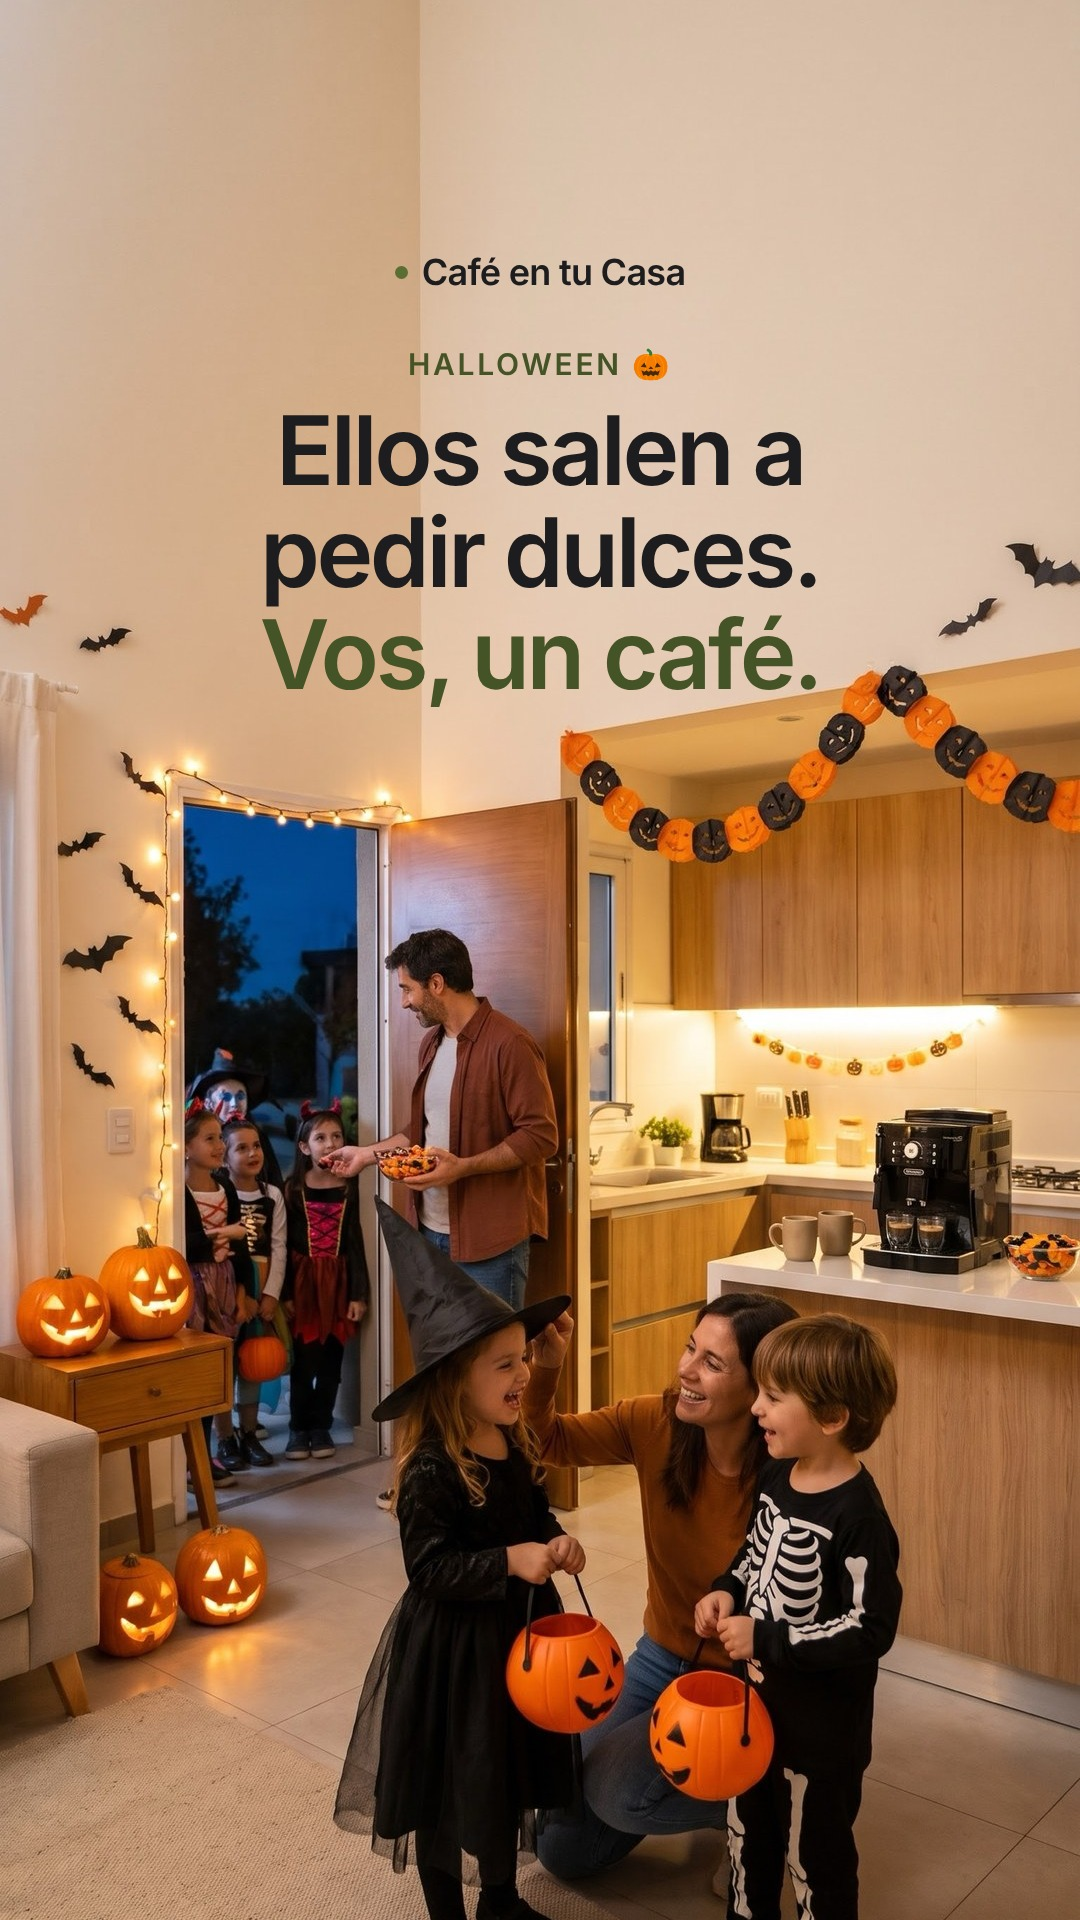
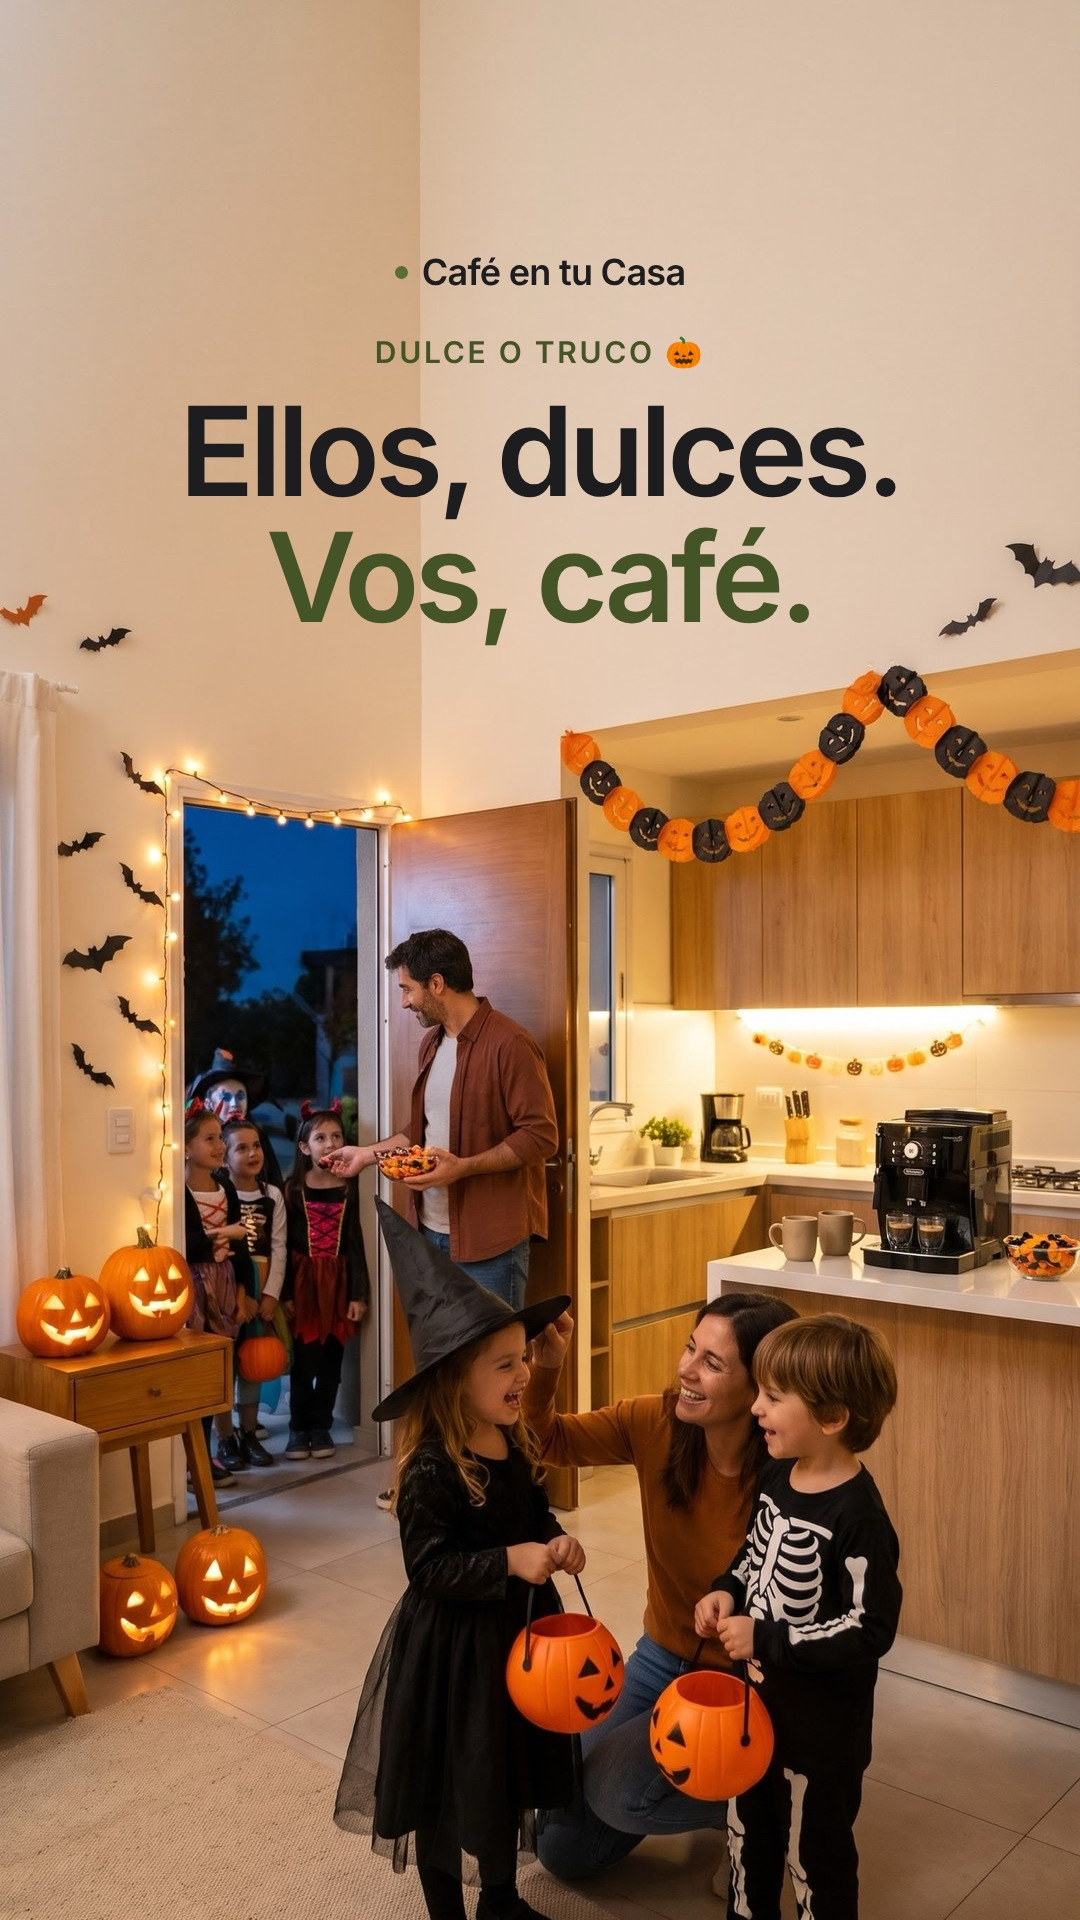
Historia de Halloween: título más corto y grande
Claude-Session: https://claude.ai/code/session_019YKpfrztqKhPwAz7rEXRyM

Changed region(s): [[0.1528, 0.1562, 0.825, 0.375]]

diff --git a/instagram/pieza.js b/instagram/pieza.js
@@ -24,7 +24,7 @@ const CUERPO = {
   opciones:s => `${ep(s.ep)}<h2>${s.h}</h2><div class="opciones">${s.ops.map(o => `<div>${o}</div>`).join('')}</div>${par(s.p)}`,
   cta:     s => `${ep(s.ep)}<h1>${s.h}</h1>${sub(s.sub)}<p class="boton">${s.boton}</p>`,
   // foto de ambiente a sangre: el texto arriba, sobre la parte limpia de la foto
-  escena:  s => `${ep(s.ep)}<h1>${s.h}</h1>${s.precio ? `<p class="precio"><b>${s.precio}</b> ${s.nota}</p>` : ''}${
+  escena:  s => `${ep(s.ep)}<h1 class="${s.grande ? 'grande' : ''}">${s.h}</h1>${s.precio ? `<p class="precio"><b>${s.precio}</b> ${s.nota}</p>` : ''}${
              s.cuotas ? `<p class="cuotas">${s.cuotas}</p>` : ''}`
 };
 
@@ -38,5 +38,5 @@ function placaHTML(pieza, n) {
   const fondo = s.t === 'escena'
     ? `<img class="fondo" src="../${s.img}" alt="">` : '';
   return `<div class="lienzo ${vertical ? 'vertical' : ''} ${s.tono || ''} ${s.t === 'escena' ? 'escena' : ''}">${fondo}
-    <div class="marca"><i></i> Café en tu Casa</div><main>${CUERPO[s.t](s)}</main>${puntos}</div>`;
+    <div class="marca"><i></i> Café en tu Casa</div><main${s.bajar ? ` style="padding-top:${s.bajar}px"` : ''}>${CUERPO[s.t](s)}</main>${puntos}</div>`;
 }

diff --git a/instagram/pieza.css b/instagram/pieza.css
@@ -107,6 +107,7 @@ h2 { font-size: 72px; font-weight: 600; line-height: 1.07; letter-spacing: -.03e
 .escena main { flex: none; justify-content: flex-start; padding: 52px 0 0; }
 .escena .ep { font-size: 30px; color: var(--brand-dark); margin-bottom: 18px; }
 .escena h1 { font-size: 96px; line-height: 1.06; }
+.escena h1.grande { font-size: 124px; line-height: 1.02; letter-spacing: -.04em; }
 .escena h1 em { font-style: normal; color: var(--brand-dark); }
 .escena .precio { margin-top: 34px; font-size: 40px; color: var(--ink); }
 .escena .precio b { font-weight: 600; }

diff --git a/instagram/contenido.js b/instagram/contenido.js
@@ -529,7 +529,7 @@ const PIEZAS = [
     caption: '',
     placas: [
       { t: 'escena', img: 'assets/img/escenas/halloween-familia.jpg',
-        ep: 'Halloween 🎃', h: 'Ellos salen a pedir dulces.<br><em>Vos, un café.</em>' }
+        ep: 'Dulce o truco 🎃', h: 'Ellos, dulces.<br><em>Vos, café.</em>', grande: true, bajar: 40 }
     ]
   }
 ];
